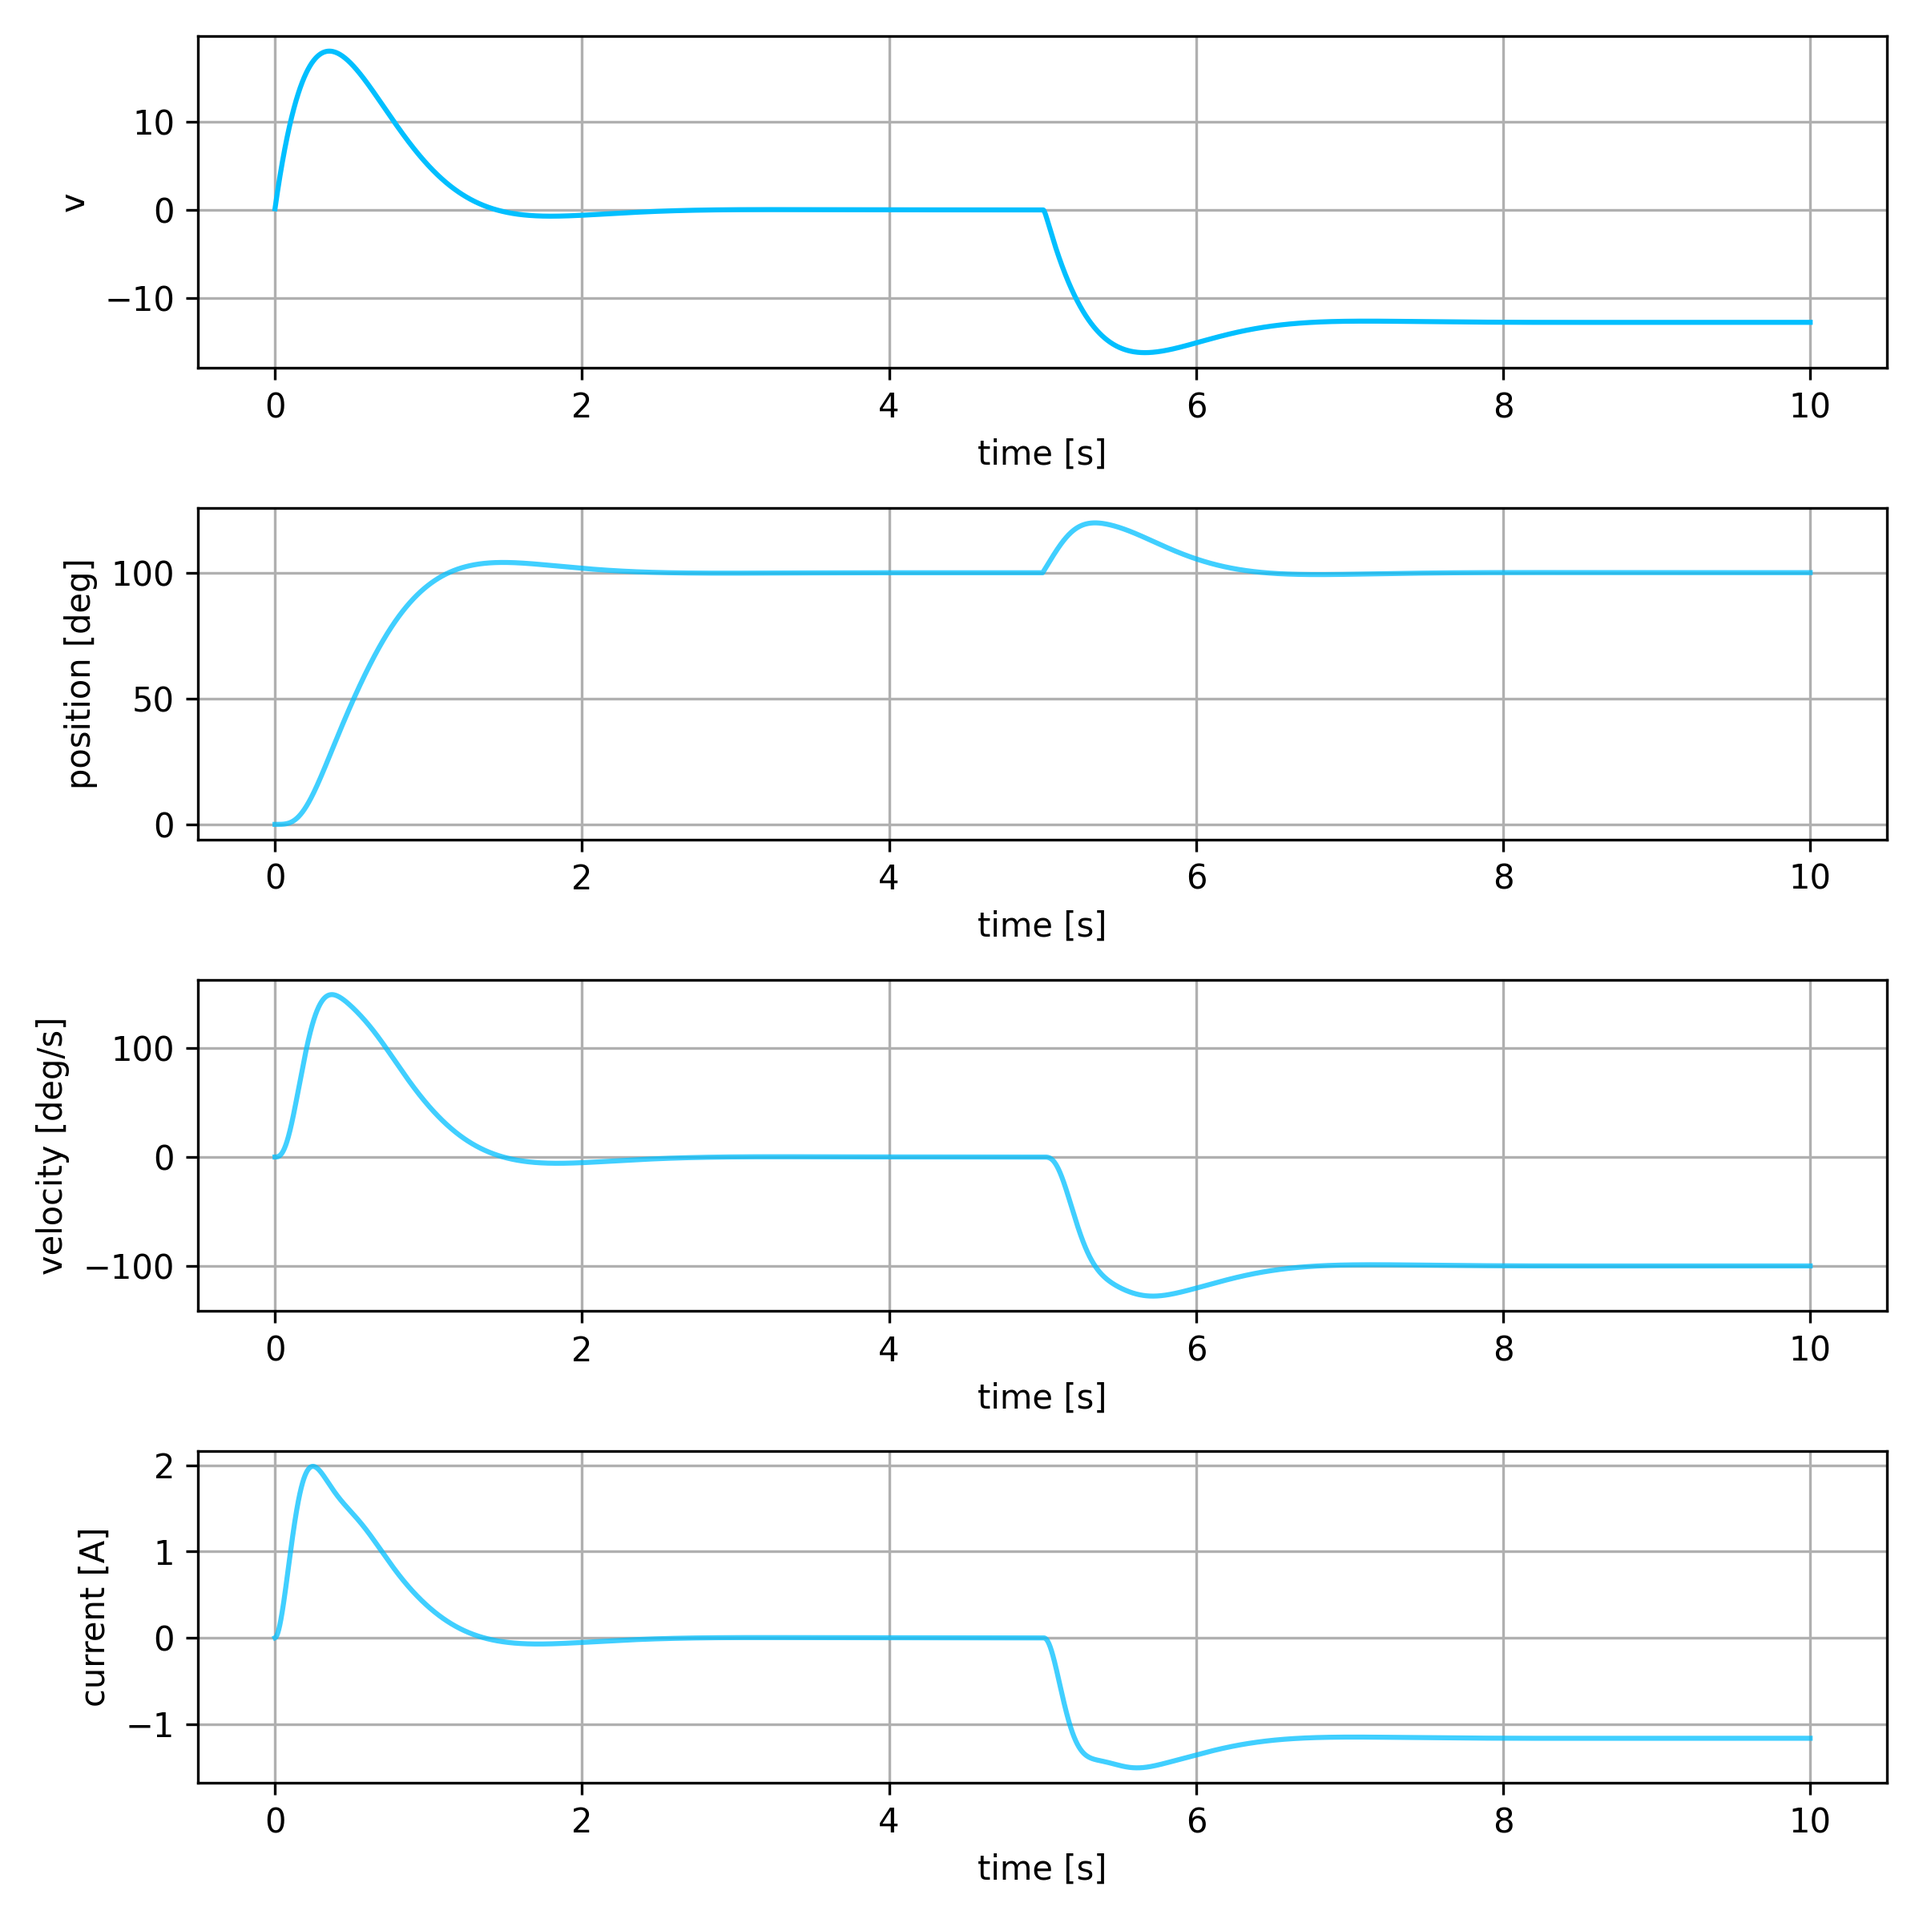
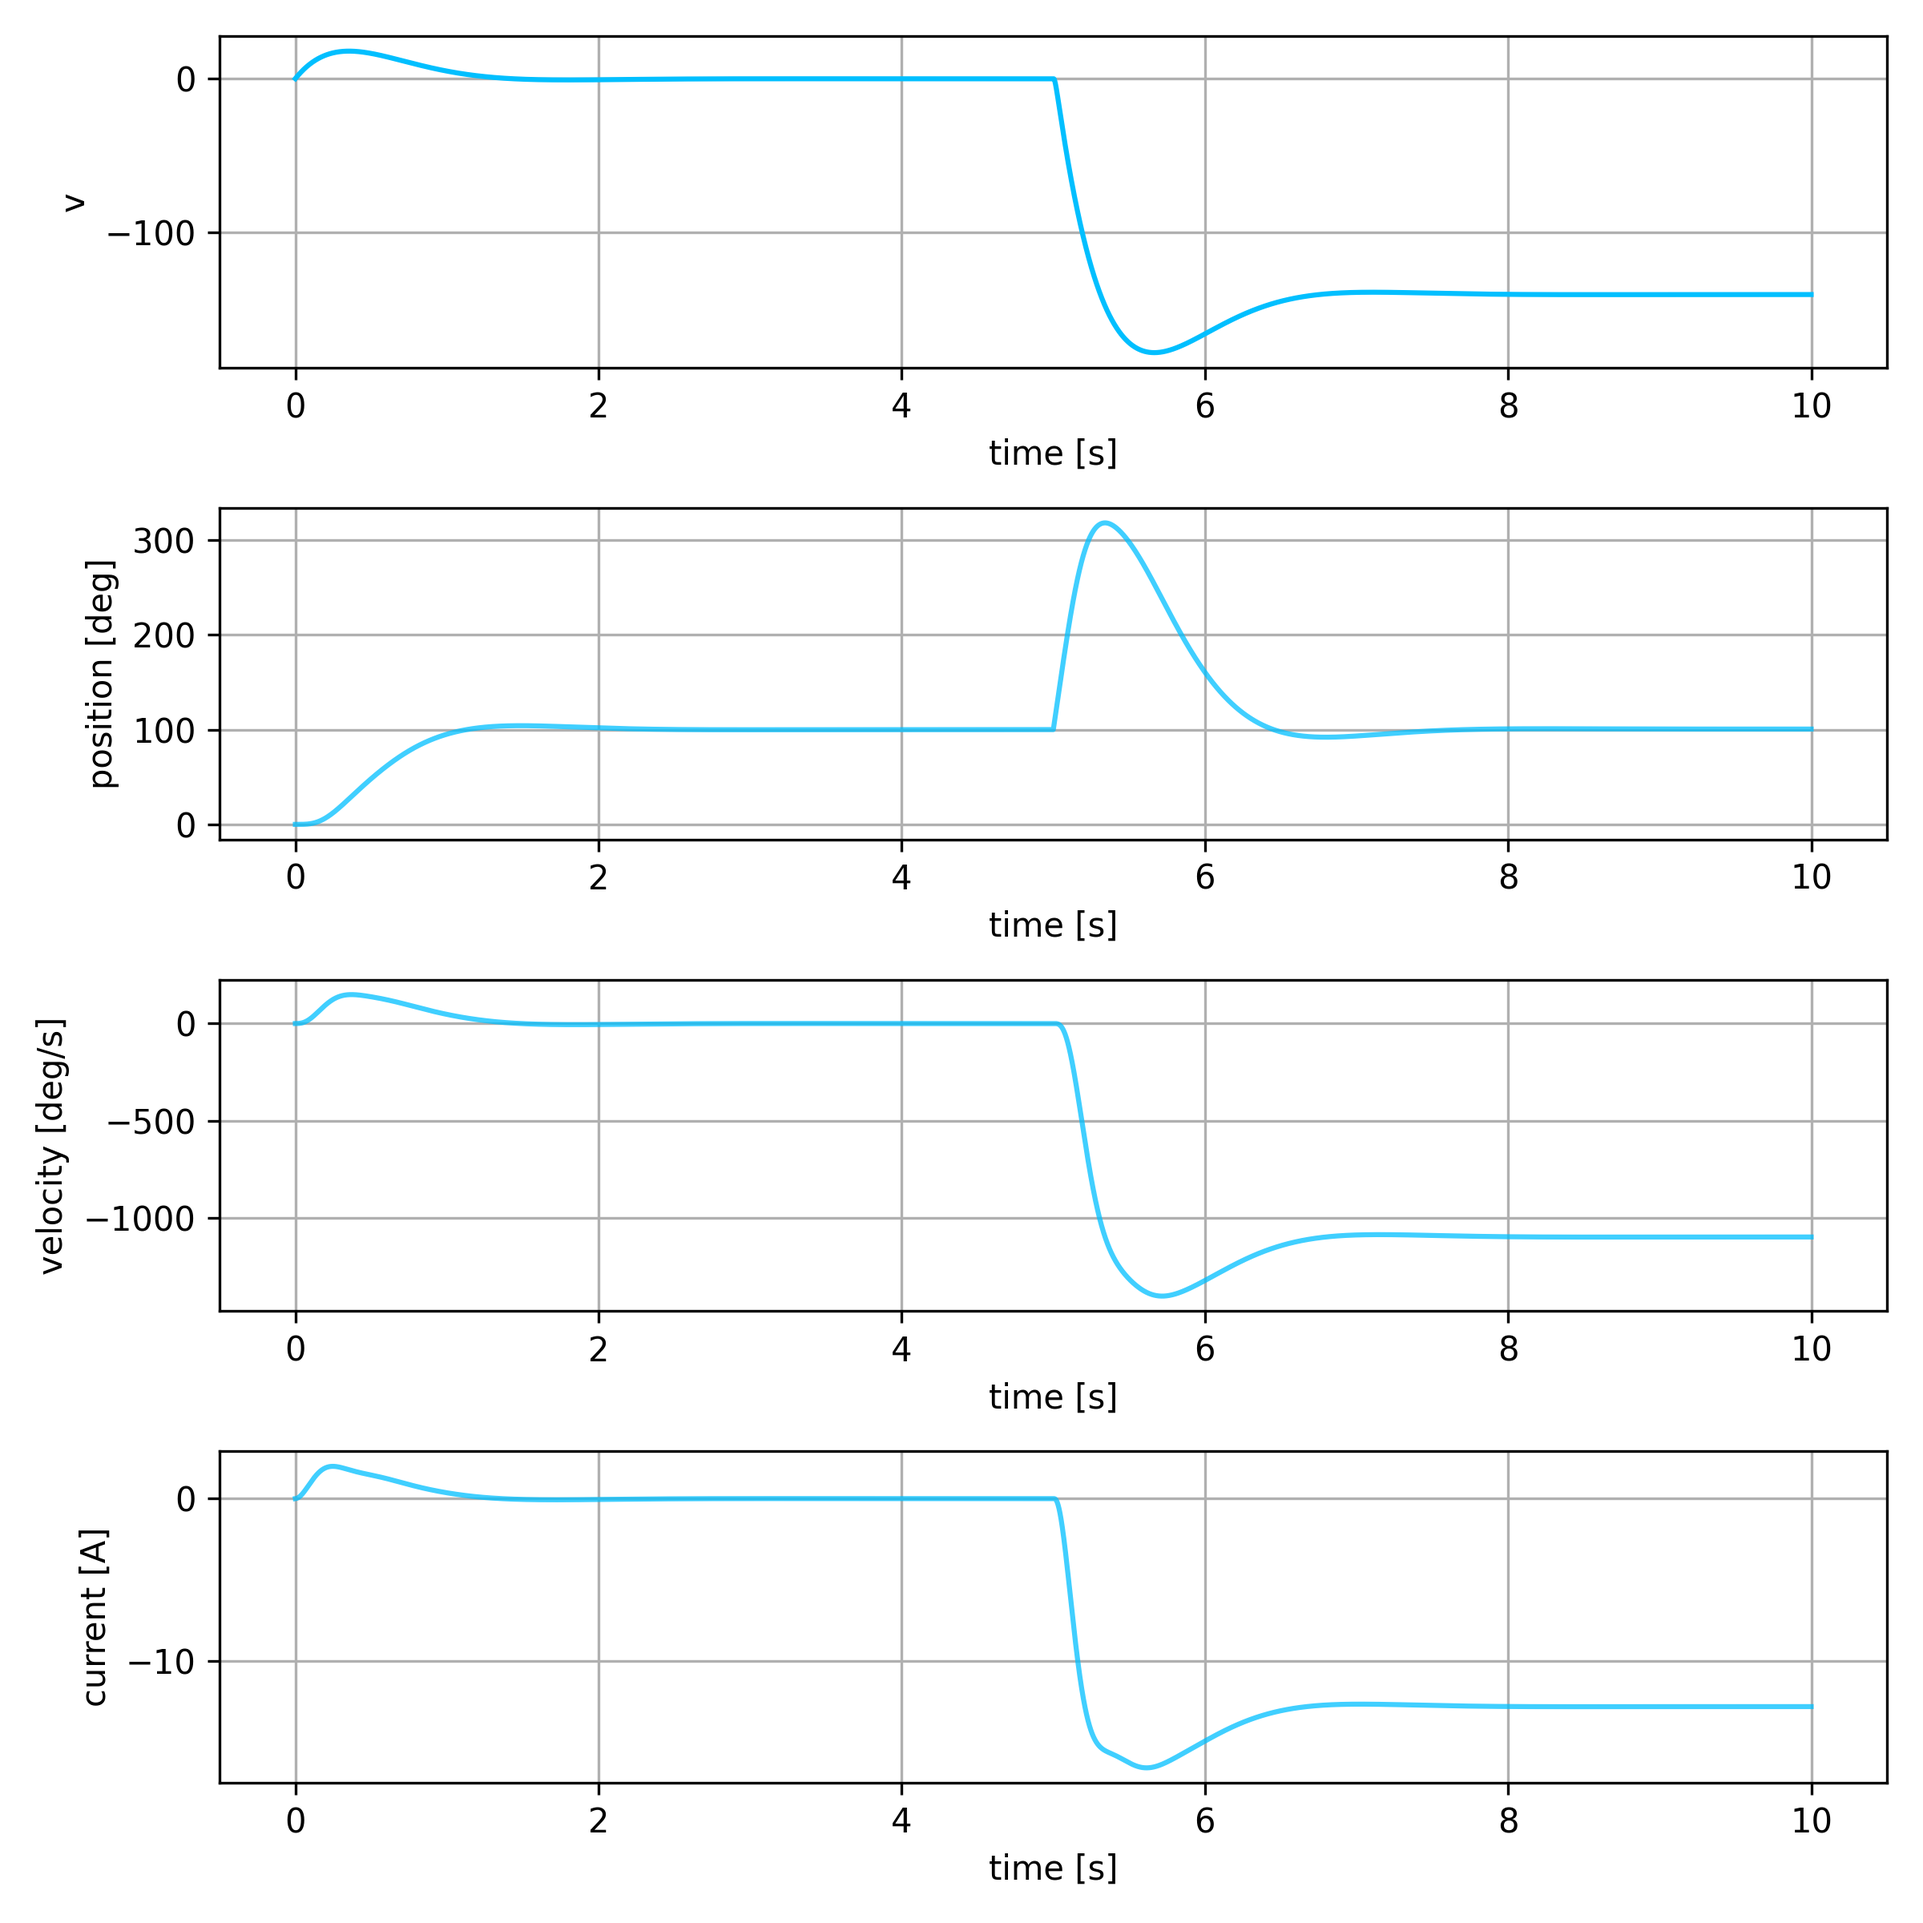
examples

diff --git a/LibsControl/libs_identification/recurisve_ls_identification.py b/LibsControl/libs_identification/recurisve_ls_identification.py
@@ -76,7 +76,7 @@ returns :
     A : shape (n_states, n_states)
     B : shape (n_states, n_inputs)
 '''
-def recurisve_kalman_ls_identification(u, x, R, Q):
+def recurisve_kalman_ls_identification(u, x, R, Q, adaptive=False):
     # resulted model parameters
     n_states = x.shape[1]
     n_inputs = u.shape[1]
@@ -91,7 +91,8 @@ def recurisve_kalman_ls_identification(u, x, R, Q):
     P = numpy.eye(n_states + n_inputs) 
 
     # forgetting factor
-    lambda_val = 0.99 
+    #lambda_val = 0.99 
+    lambda_val = 0.9999
 
     num_samples = u.shape[0]
     for n in range(1, num_samples):
@@ -110,12 +111,18 @@ def recurisve_kalman_ls_identification(u, x, R, Q):
         #denom = (lambda_val + extended_x.T@P@extended_x).item()
         denom = (lambda_val + extended_x.T @ P @ extended_x + x_prev.T @ R @ x_prev).item()
 
-        if numpy.abs(denom) > 10e-4 and numpy.abs(denom) < 10e3:
+        #if numpy.abs(denom) > 10e-4 and numpy.abs(denom) < 10e3:
+        if numpy.abs(denom) > 10e-6 and numpy.abs(denom) < 10e6:
             K = (P@extended_x) / denom
             # model update
             theta += (error@K.T)
             # covariance update
             P = (1.0 / lambda_val) * (P - K@extended_x.T@P) + Q
+
+            if adaptive:
+                # adaptive noise covariance matrix
+                # r = e@e^T + CPC^T
+                R = error@error.T + P[0:n_states, 0:n_states]
 
     a_est = theta[:, 0:n_states]
     b_est = theta[:, n_states:]

diff --git a/LibsControl/libs_common/lqg_discrete.py b/LibsControl/libs_common/lqg_discrete.py
@@ -40,11 +40,11 @@ class LQGDiscrete:
     '''
     def forward(self, yr, y, integral_action, x_hat):
       
-        # integral action
+        # integral action  
         error = yr - y
         integral_action_new = integral_action + self.ki@error
 
-        # LQR controll law
+        # LQR controll law 
         u = -self.k@x_hat + integral_action_new
 
  

diff --git a/examples/01_servo_lqr/lqg_discrete.py b/examples/01_servo_lqr/lqg_discrete.py
@@ -105,7 +105,7 @@ for n in range(n_max):
   
     #add constant distrubance in middle
     if n > n_max//2:
-        x[0]+= 0.1*numpy.pi/180.0
+        x[0]+= 1.1*numpy.pi/180.0
 
     t_result.append(n*dt)
     u_result.append(u[:, 0].copy())
